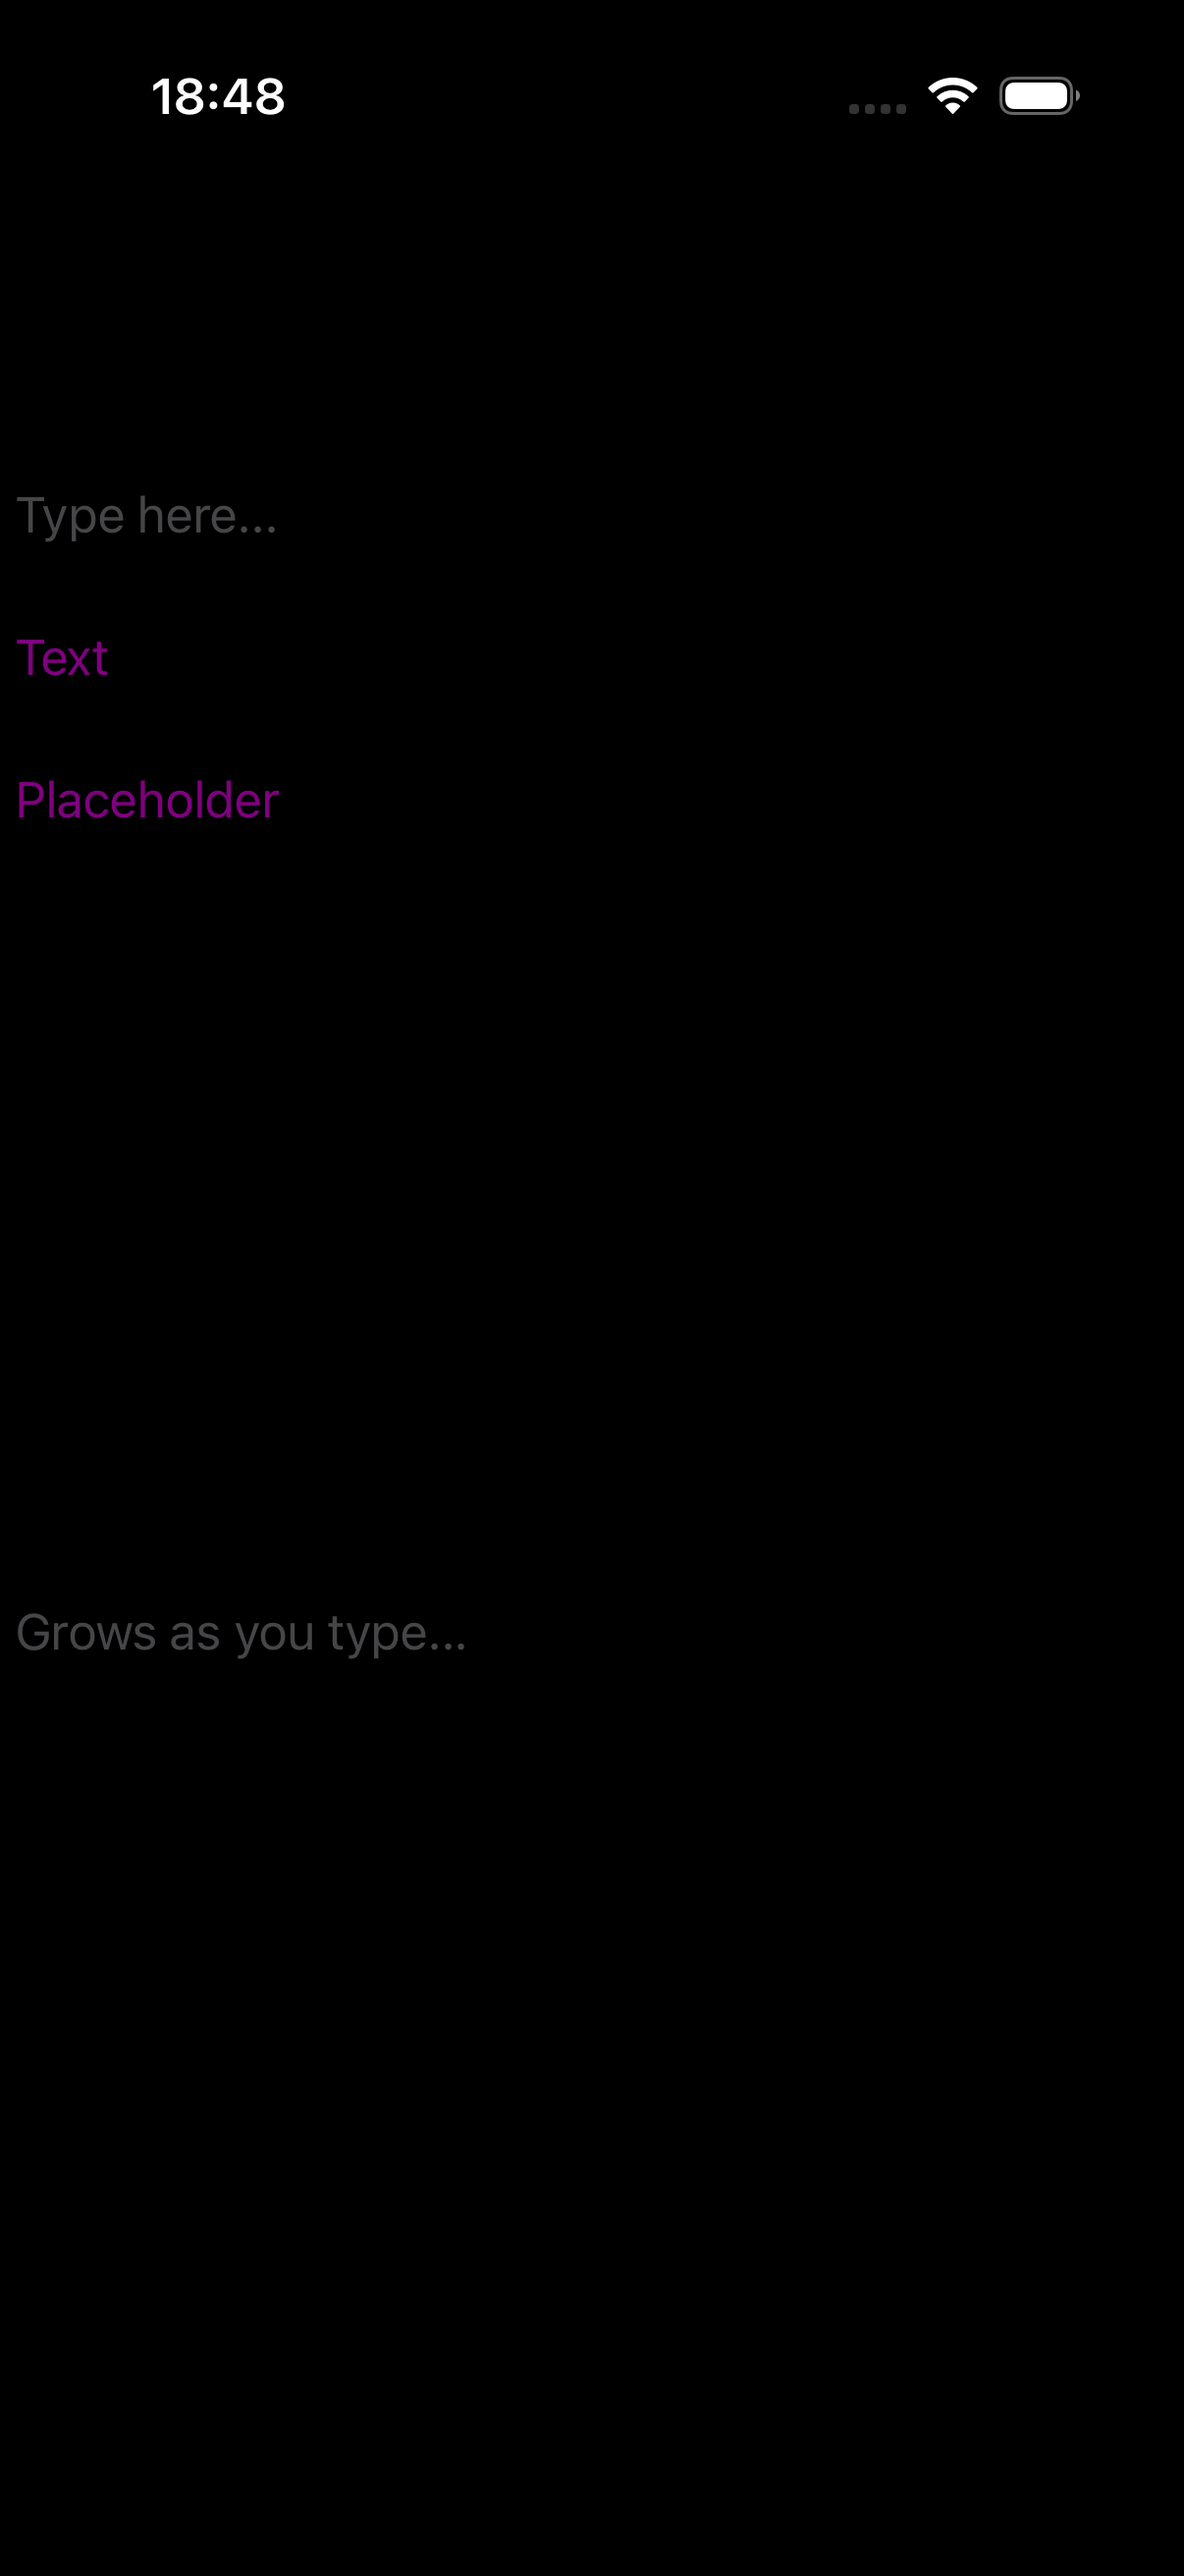
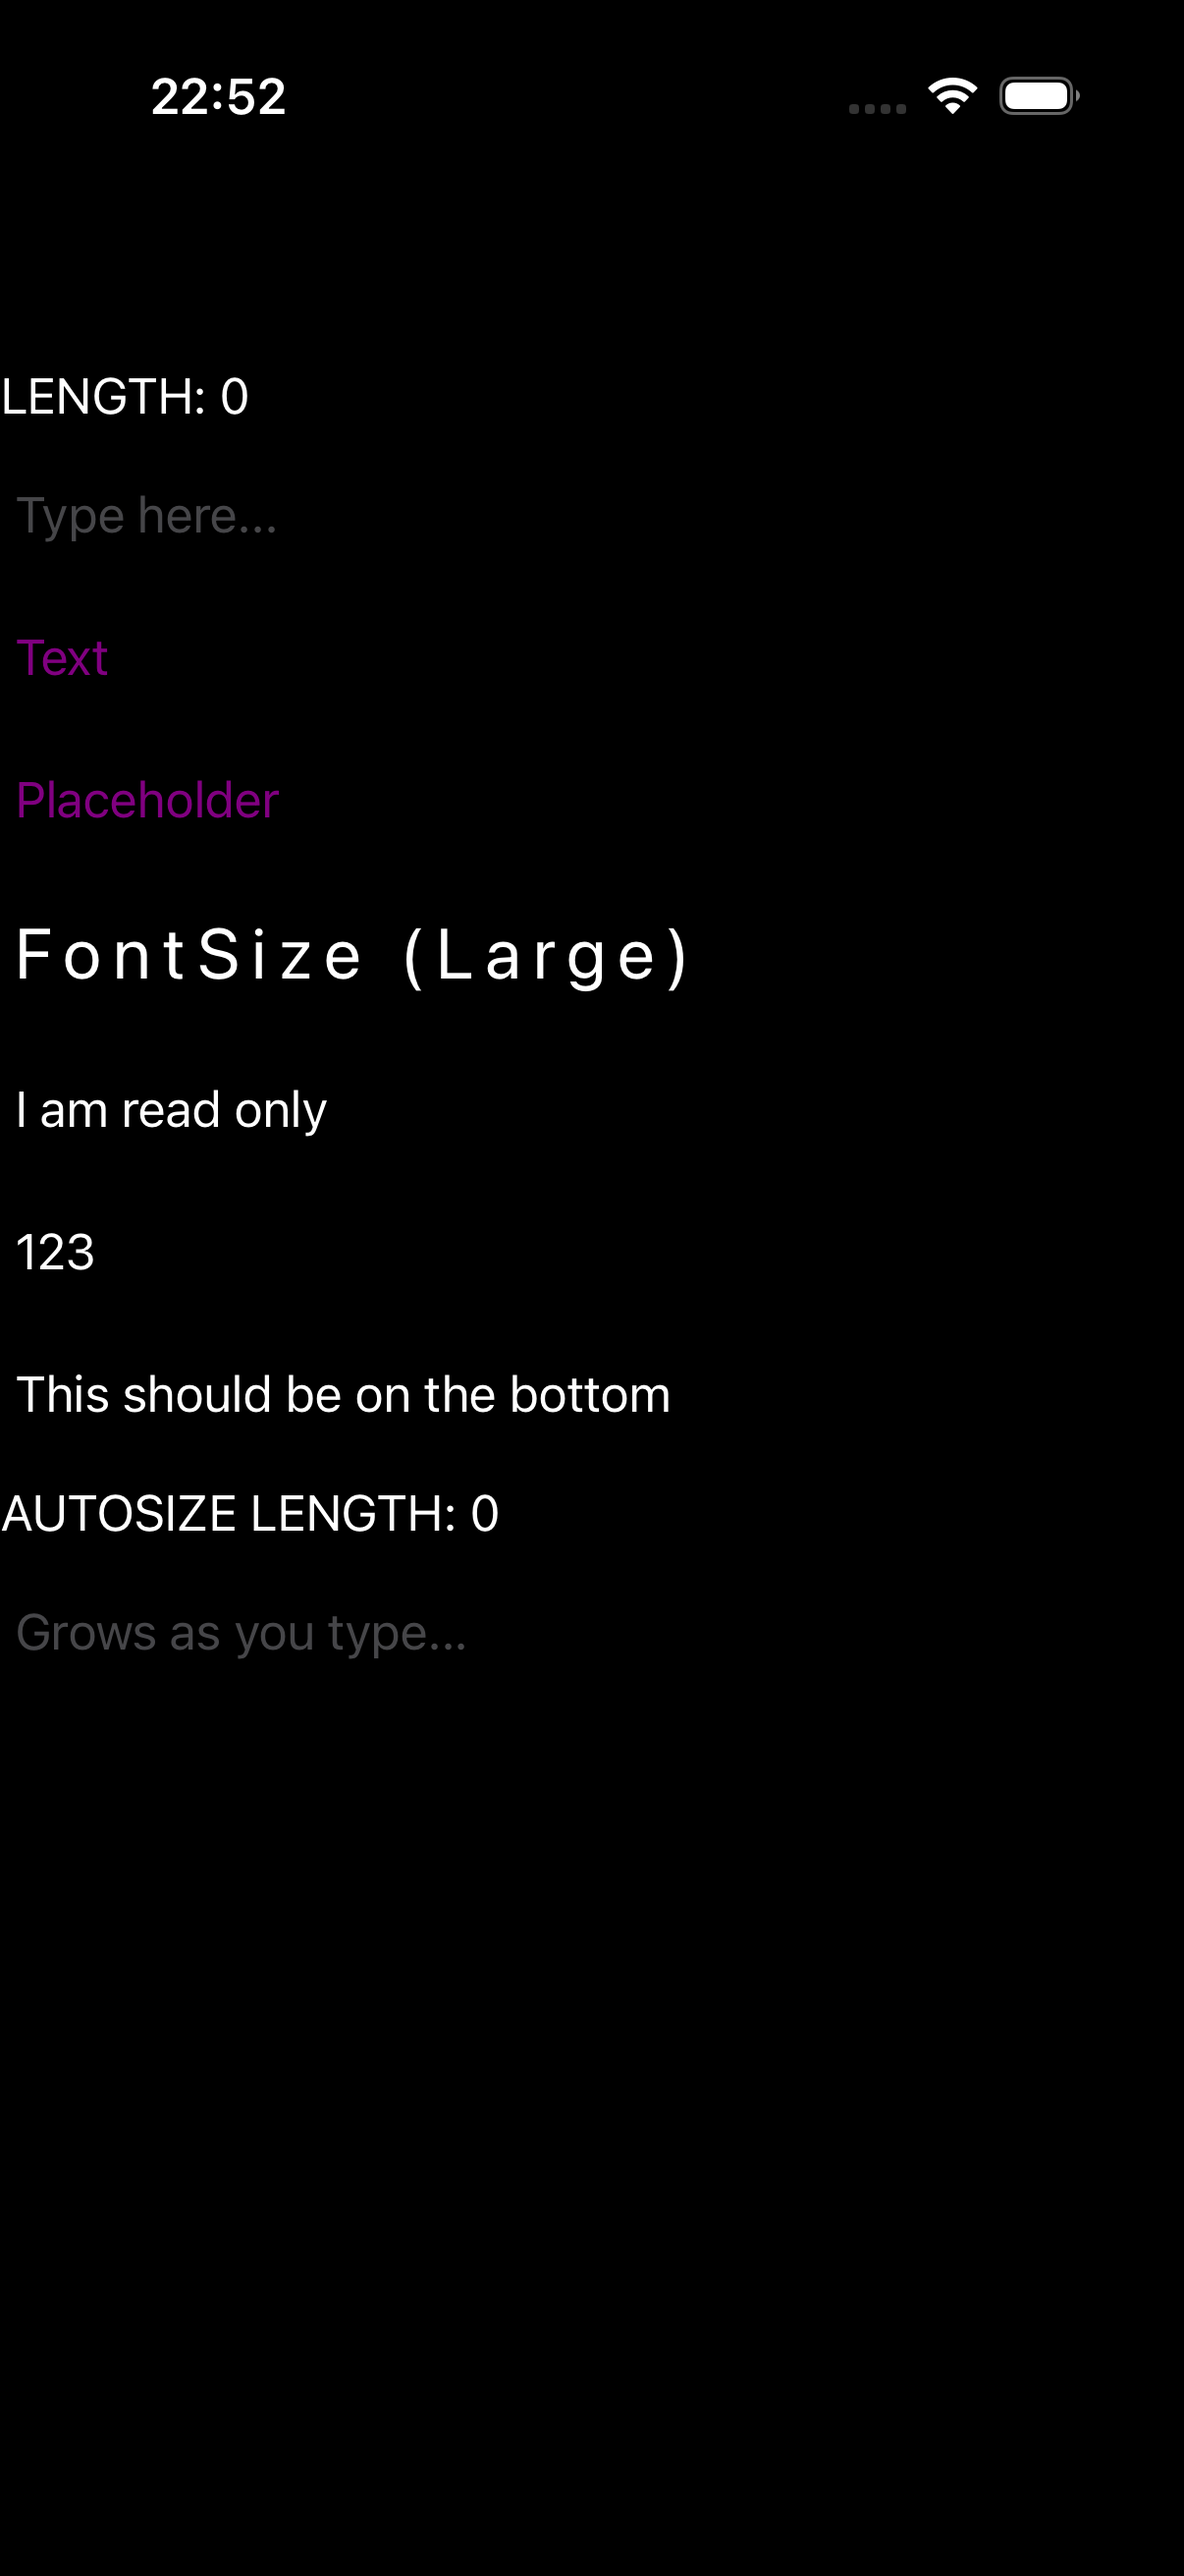
fix(ios,parity): Editor uses dynamic system label color when text unset (dark visibility)
example 4/172 (editor): same dark-text root cause as label/entry — map_text_color
forced to_ui_color(default) (opaque black), invisible on dark system background.
Now unset -> UIColor.labelColor (adapts light/dark); explicit colors + gray
placeholders preserved. C++ dark editor now renders all rows white, matching MAUI
dark. Tracker: editor dark diff->minor (4 minor: label/button/entry/editor).

diff --git a/port/cpp/src/platform/ios/editor_handler.mm b/port/cpp/src/platform/ios/editor_handler.mm
@@ -488,7 +488,12 @@ namespace maui::core
         auto* platform = handler.typed_platform_view();
         if (platform != nullptr)
         {
-            as_text_view(platform->native).textColor = to_ui_color(view.text_color());
+            // An unset TextColor (default-constructed sentinel) must resolve to the dynamic system
+            // label color so text stays legible in dark mode — mirrors EditorHandler.iOS's reliance on
+            // the platform's default label color rather than forcing opaque black. Explicit colors win.
+            const maui::graphics::color text_color = view.text_color();
+            as_text_view(platform->native).textColor =
+                text_color != maui::graphics::color{} ? to_ui_color(text_color) : UIColor.labelColor;
         }
     }
 

diff --git a/port/cpp/docs/comparison/README.md b/port/cpp/docs/comparison/README.md
@@ -2,7 +2,7 @@
 
 Theme-matched iOS comparison: each page rendered by **real .NET MAUI** vs the **C++ port**, on the same iPhone 17 simulator, compared **light-vs-light** and **dark-vs-dark**. Both stacks render native-default controls + the system font (the C# app's `dotnet new maui` default `Styles.xaml` + OpenSans are stripped; appearance forced via `MAUI_THEME` / `MAUI_APPEARANCE`). Goal: pixel-perfect parity, fixed example-by-example.
 
-**Progress: 0 / 172 🟢 matched** · 3 🟡 minor · 58 🔴 diff · 111 ⬜ pending
+**Progress: 0 / 172 🟢 matched** · 4 🟡 minor · 57 🔴 diff · 111 ⬜ pending
 
 Status legend: 🟢 pixel-match (both themes) · 🟡 minor diff · 🔴 notable diff to fix · ⬜ not yet reviewed. Per-theme verdicts in `parity_status.json`.
 
@@ -15,7 +15,7 @@ Rows are in **fix order** (top → bottom): foundational single controls first (
 | 1 | Label | 🟡<br>L:minor<br>D:minor | ![](csharp_ios_light/label.png) | ![](cpp_ios_light/label.png) | ![](csharp_ios_dark/label.png) | ![](cpp_ios_dark/label.png) |
 | 2 | Button | 🟡<br>L:minor<br>D:minor | ![](csharp_ios_light/button.png) | ![](cpp_ios_light/button.png) | ![](csharp_ios_dark/button.png) | ![](cpp_ios_dark/button.png) |
 | 3 | Entry | 🟡<br>L:minor<br>D:minor | ![](csharp_ios_light/entry.png) | ![](cpp_ios_light/entry.png) | ![](csharp_ios_dark/entry.png) | ![](cpp_ios_dark/entry.png) |
-| 4 | Editor | 🔴<br>L:minor<br>D:diff | ![](csharp_ios_light/editor.png) | ![](cpp_ios_light/editor.png) | ![](csharp_ios_dark/editor.png) | ![](cpp_ios_dark/editor.png) |
+| 4 | Editor | 🟡<br>L:minor<br>D:minor | ![](csharp_ios_light/editor.png) | ![](cpp_ios_light/editor.png) | ![](csharp_ios_dark/editor.png) | ![](cpp_ios_dark/editor.png) |
 | 5 | Search Bar | ⬜<br>L:pending<br>D:pending | ![](csharp_ios_light/search_bar.png) | ![](cpp_ios_light/search_bar.png) | ![](csharp_ios_dark/search_bar.png) | ![](cpp_ios_dark/search_bar.png) |
 | 6 | Picker | ⬜<br>L:pending<br>D:pending | ![](csharp_ios_light/picker.png) | ![](cpp_ios_light/picker.png) | ![](csharp_ios_dark/picker.png) | ![](cpp_ios_dark/picker.png) |
 | 7 | Date Picker | 🔴<br>L:diff<br>D:diff | ![](csharp_ios_light/date_picker.png) | ![](cpp_ios_light/date_picker.png) | ![](csharp_ios_dark/date_picker.png) | ![](cpp_ios_dark/date_picker.png) |
